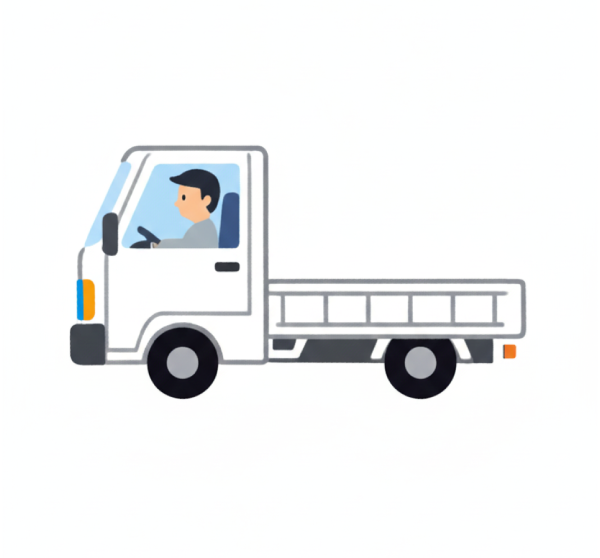
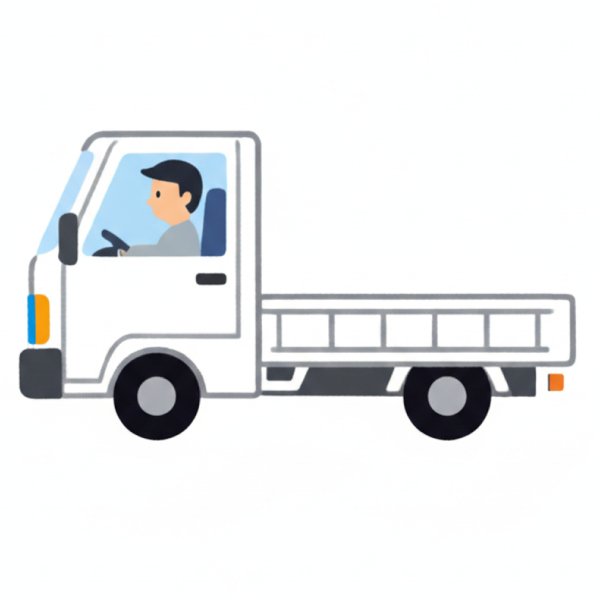
Fix hydration error, update pricing images and hero section layout
- Add suppressHydrationWarning to html tag for browser extension compatibility
- Update pricing pack images (s_pac, m_pac) and make containers square
- Add truck label with line break on mobile pricing
- Remove rotation from area badge and increase font size

🤖 Generated with [Claude Code](https://claude.com/claude-code)

Changed region(s): [[0.03, 0.2133, 0.96, 0.7616]]

diff --git a/components/PricingSection.tsx b/components/PricingSection.tsx
@@ -16,7 +16,7 @@ export default function PricingSection() {
       name: "Sパック",
       badge: "安さ\nNO.1",
       description: "少量の不用品回収",
-      items: "運賃（軽トラ）＋作業費＋スタッフ費",
+      items: "運賃＋作業費＋人件費（トラック）",
       price: "3,300〜7,700円",
       gradientFrom: "#ffc000",
       gradientTo: "#cc9900",
@@ -26,7 +26,7 @@ export default function PricingSection() {
       name: "Mパック",
       badge: "迷ったら\nこれ！",
       description: "1ルームの引っ越しや遺品整理向け",
-      items: "運賃（軽トラ）＋作業費＋スタッフ費",
+      items: "運賃＋作業費＋人件費（トラック）",
       price: "8,800〜15,400円",
       gradientFrom: "#f59d0f",
       gradientTo: "#c37a0c",
@@ -36,7 +36,7 @@ export default function PricingSection() {
       name: "Lパック",
       badge: "たっぷり\nお得！",
       description: "1DK、1LDK以上の方の引っ越しや解体、売却",
-      items: "運賃（軽トラ）＋作業費＋スタッフ費",
+      items: "運賃＋作業費＋人件費（トラック）",
       price: "15,400〜31,900円",
       gradientFrom: "#EC6C26",
       gradientTo: "#b8531d",
@@ -117,8 +117,9 @@ export default function PricingSection() {
                   {/* 右側: 運賃等 + 価格 */}
                   <div className="flex-1 flex flex-col justify-between">
                     {/* 上: 運賃+作業費+人件費 */}
-                    <div className="bg-secondary text-white text-center py-2 rounded-full font-medium shadow-lg text-sm">
-                      運賃 + 作業費 + 人件費
+                    <div className="bg-secondary text-white text-center py-2 rounded-full font-medium shadow-lg text-sm leading-tight">
+                      運賃 + 作業費 + 人件費<br />
+                      （トラック）
                     </div>
                     {/* 下: 価格 */}
                     <div className="text-center py-2 rounded-lg mt-2" style={{ backgroundColor: '#fff4e6' }}>
@@ -134,19 +135,19 @@ export default function PricingSection() {
               {/* タブレット・PC版コンテンツ */}
               <div className="hidden md:block p-6 bg-gray-100">
                 {/* 軽トラ画像プレースホルダー */}
-                <div className="mb-6 bg-white rounded-xl flex items-center justify-center p-6 shadow-[inset_0_0_8px_2px_rgba(0,0,0,0.15)]">
+                <div className="mb-6 bg-white rounded-xl flex items-center justify-center p-4 xl:p-6 shadow-[inset_0_0_8px_2px_rgba(0,0,0,0.15)] aspect-square">
                   <Image
                     src={plan.image}
                     alt="軽トラック"
-                    width={280}
-                    height={210}
-                    className="object-contain rounded-xl w-[200px] h-[150px] xl:w-[280px] xl:h-[210px]"
+                    width={400}
+                    height={400}
+                    className="object-contain rounded-xl w-full h-full"
                   />
                 </div>
 
                 <div className="space-y-1 mb-6">
                   <div className="bg-secondary text-white text-center py-3 rounded-full font-medium shadow-lg text-lg">
-                    運賃（軽トラ）
+                    運賃（トラック）
                   </div>
                   <div className="text-center text-xl font-bold text-gray-400">＋</div>
                   <div className="bg-secondary text-white text-center py-3 rounded-full font-medium shadow-lg text-lg">

diff --git a/components/HeroSection.tsx b/components/HeroSection.tsx
@@ -23,11 +23,11 @@ export default function HeroSection() {
       <div className="container mx-auto px-4 relative z-10">
         {/* PC版レイアウト */}
         <div className="hidden xl:block">
-          {/* 斜めバー */}
+          {/* 対応エリアバー */}
           <div className="flex justify-center items-center mb-4">
             <div
-              className="bg-red-600 text-white font-bold px-8 text-2xl rounded-lg flex items-center justify-center"
-              style={{ transform: "rotate(-3deg)", paddingTop: "8px", paddingBottom: "10px", lineHeight: "1" }}
+              className="bg-red-600 text-white font-bold px-10 text-4xl rounded-lg flex items-center justify-center"
+              style={{ paddingTop: "10px", paddingBottom: "12px", lineHeight: "1" }}
             >
               広島市全域対応
             </div>
@@ -195,11 +195,11 @@ export default function HeroSection() {
 
         {/* タブレット版レイアウト */}
         <div className="hidden md:block xl:hidden">
-          {/* 斜めバー */}
+          {/* 対応エリアバー */}
           <div className="flex justify-center items-center mb-4">
             <div
-              className="bg-red-600 text-white font-bold px-6 text-xl rounded-lg flex items-center justify-center"
-              style={{ transform: "rotate(-3deg)", paddingTop: "7px", paddingBottom: "9px", lineHeight: "1" }}
+              className="bg-red-600 text-white font-bold px-8 text-3xl rounded-lg flex items-center justify-center"
+              style={{ paddingTop: "8px", paddingBottom: "10px", lineHeight: "1" }}
             >
               広島市全域対応
             </div>
@@ -325,11 +325,11 @@ export default function HeroSection() {
 
         {/* モバイル版レイアウト */}
         <div className="md:hidden pt-0">
-          {/* 斜めバー */}
+          {/* 対応エリアバー */}
           <div className="flex justify-center items-center mb-3">
             <div
-              className="bg-red-600 text-white font-bold px-4 text-sm rounded-md flex items-center justify-center"
-              style={{ transform: "rotate(-3deg)", paddingTop: "5px", paddingBottom: "7px", lineHeight: "1" }}
+              className="bg-red-600 text-white font-bold px-5 text-2xl rounded-md flex items-center justify-center"
+              style={{ paddingTop: "6px", paddingBottom: "8px", lineHeight: "1" }}
             >
               広島市全域対応
             </div>

diff --git a/components/CTAButton.tsx b/components/CTAButton.tsx
@@ -67,7 +67,7 @@ export default function CTAButton({
           <span className={`${textSizes[size]} -mt-1`}>0120-551-669</span>
         </a>
         {showDescription && (
-          <p className="text-white text-center mt-2 text-base">受付日時：土日対応可能 9時〜18時</p>
+          <p className="text-white text-center mt-2 text-base">毎日営業（9:00〜18:00）</p>
         )}
       </div>
     )

diff --git a/app/privacy/page.tsx b/app/privacy/page.tsx
@@ -119,7 +119,7 @@ export default function Privacy() {
                   </a>
                 </p>
                 <p className="text-gray-400 text-sm">
-                  受付日時: 土日対応可能 9時〜18時
+                  毎日営業（9:00〜18:00）
                 </p>
               </div>
             </div>

diff --git a/app/page.tsx b/app/page.tsx
@@ -56,7 +56,7 @@ export default function Home() {
                   </a>
                 </p>
                 <p className="text-gray-400 text-sm">
-                  受付日時: 土日対応可能 9時〜18時
+                  毎日営業（9:00〜18:00）
                 </p>
               </div>
             </div>

diff --git a/app/layout.tsx b/app/layout.tsx
@@ -72,7 +72,7 @@ export default function RootLayout({
   }
 
   return (
-    <html lang="ja">
+    <html lang="ja" suppressHydrationWarning>
       <head>
         <link rel="preconnect" href="https://fonts.googleapis.com" />
         <link rel="preconnect" href="https://fonts.gstatic.com" crossOrigin="anonymous" />
